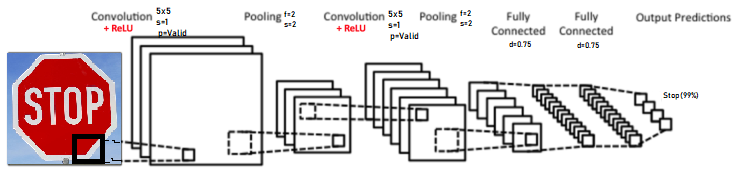
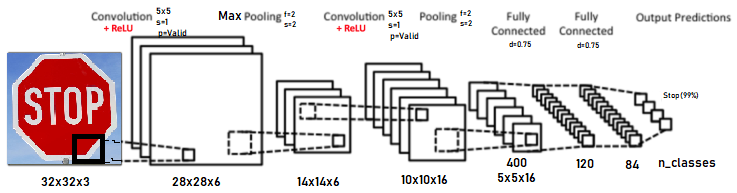
docs: addtion of architecture images

diff --git a/README.md b/README.md
@@ -47,15 +47,22 @@ The demo file has the following sections:
 - Inpection & Analysis of Model
 
 #### Dataset
-The demo file makes use of the German traffic sign dataset to show results. However, once you have run and understood the `demo.ipynb`, feel free to try your own dataset by changing the input directories from 'Load The Data' section in the demo file. The dataset provided for training and validation are pickle files containing RESIZED VERSIONS (32 by 32) of the [original dataset](http://benchmark.ini.rub.de/?section=gtsrb&subsection=dataset). There exist two test sets for evaluation, one as a pickle file with the same instructions as validation and training set, and the other is `my_test_images` with images I collected from the web. The following is a catalog of the signs in the dataset as labeled in `signnames.csv`:
+The demo file makes use of the German traffic sign dataset to show results. However, once you have run and understood the `demo.ipynb`, feel free to try your own dataset by changing the input directories from 'Load The Data' section in the demo file.
+
+The dataset provided for training and validation are pickle files containing RESIZED VERSIONS (32 by 32) of the [original dataset](http://benchmark.ini.rub.de/?section=gtsrb&subsection=dataset). There exist two test sets for evaluation, one as a pickle file with the same instructions as validation and training set, and the other is `my_test_images` with images I collected from the web.
+
+The following is a catalog of the signs in the dataset as labeled in `signnames.csv`:
+
 ![alt text][image2]
 
 The dataset contains 43 classes labeled from [0-42]. The image shape is (32, 32, 3) for all pickle files while `my_test_images` has images of random sizes which are later preprocessed to be resized to (32, 32, 3). <b>ADD in `my_test_images` YOUR OWN GERMAN TRAFFIC SIGNS FOR TESTING.</b>
 
-Training Set   : 34799 samples
-Validation Set :  4410 samples
-Test Set       : 12630 samples
-My Test Set    :     6 samples
+| Set | Samples |
+| :---  | :--------: |
+| Training Set   | 34799  |
+| Validation Set |  4410  |
+| Test Set       | 12630  |
+| My Test Set    |     6  |
 
 The distribution of the training set is:
 ![alt text][image3]
@@ -66,14 +73,14 @@ The model of the neural network has a LeNet architecture with dropout added in t
 
 ![alt text][image4]
 
-My final model consisted of the following layers:
 
 ###### Note: 
-![alt text][image5]
 
 - Normalization helps to find faster better weights during training 
-- The dropout added to the LeNet architecture increased accuracy by 4%
+- The dropout added to the LeNet architecture increased the training accuracy by 4% 
 - The optimizer used was Adam
+- The Networks parameters were  the following:
+![alt text][image5]
 
 
 ## Analysis of Model on Test Images
@@ -84,51 +91,67 @@ Here are five random German traffic signs that I found on the web:
 
 The model's top 5 softmax predictions on each of these new traffic signs were:
 
-For <b>Stop</b> The top 5 softmax results:
-|Prob:| Prediction|
-|:--:|:--:|
-| 100.0%   | Priority road |
+<b>Stop</b> 
+| Prob: | Top 5 Predictions |
+| ---:  | :--------: |
+| 100.0% | Priority road |
 | 0.0%   | End of no passing by vehicles over 3.5 metric tons |
 | 0.0%   | No passing for vehicles over 3.5 metric tons |
-| 0.0%    |End of no passing |
-| 0.0%   |Right-of-way at the next intersection |
+| 0.0%   | End of no passing |
+| 0.0%   | Right-of-way at the next intersection |
 
-For "Children crossing" The top 5 softmax results:
-	 99.64%   : Children crossing 
-	 0.3%   : Pedestrians 
-	 0.03%   : Right-of-way at the next intersection 
-	 0.02%   : Road narrows on the right 
-	 0.01%   : Dangerous curve to the right 
+<b>Children crossing,</b>
+| Prob: | Top 5 Predictions |
+| ---:  | :--------: |
+| 99.64%  | Children crossing |
+| 0.3%    | Pedestrians |
+| 0.03%   | Right-of-way at the next intersection |
+| 0.02%   | Road narrows on the right |
+| 0.01%   | Dangerous curve to the right |
 
-For "Go straight or right" The top 5 softmax results:
-	 100.0%   : Go straight or right 
-	 0.0%   : General caution 
-	 0.0%   : Keep right 
-	 0.0%   : Roundabout mandatory 
-	 0.0%   : Turn left ahead 
+<b>Go straight or right</b>
+| Prob: | Top 5 Predictions |
+| ---:  | :--------: |
+| 100.0% | Go straight or right |
+| 0.0%   | General caution |
+| 0.0%   | Keep right |
+| 0.0%   | Roundabout mandatory |
+| 0.0%   | Turn left ahead |
 
-For "Speed limit (30km/h)" The top 5 softmax results:
-	 98.78%   : Speed limit (30km/h) 
-	 0.86%   : Speed limit (20km/h) 
-	 0.36%   : Speed limit (70km/h) 
-	 0.0%   : Speed limit (50km/h) 
-	 0.0%   : Speed limit (80km/h) 
+<b>Speed limit (30km/h)</b>
+| Prob: | Top 5 Predictions |
+| ---:  | :--------: |
+| 98.78% | Speed limit (30km/h) |
+| 0.86%  | Speed limit (20km/h) |
+| 0.36%  | Speed limit (70km/h) |
+| 0.0%   | Speed limit (50km/h) |
+| 0.0%   | Speed limit (80km/h) |
 
-For "Roundabout mandatory" The top 5 softmax results:
-	 99.96%   : Roundabout mandatory 
-	 0.04%   : Turn right ahead 
-	 0.0%   : Ahead only 
-	 0.0%   : Go straight or left 
-	 0.0%   : Turn left ahead 
+<b>Roundabout mandatory</b>
+| Prob: | Top 5 Predictions |
+| ---:  | :--------: |
+| 99.96% | Roundabout mandatory | 
+| 0.04%  | Turn right ahead |
+| 0.0%   | Ahead only |
+| 0.0%   | Go straight or left |
+| 0.0%   | Turn left ahead |
 
 
 The model was able to correctly guess 4 of the 5 traffic signs, which gives an accuracy of 80%. This compares favorably to the accuracy on the original test set of 100.0 %
 
-The `STOP` traffic sign failed predicting it as `Priority Road` so let's inspect the feature maps of LeNet's first convolution, first max pool, and second convolution.
+The `STOP` traffic sign failed in the prediction with `Priority Road` so let's inspect the its feature maps in for LeNet's first convolutional, first max pool, and second convolutional layers.
 ![alt text][image7]
 
 
 ## Drawbacks and improvements
-With a very basic architecture we were able to reach 95% accuracy. Possible improvements would be to make the architecture deeper to reach higher accuracy, evaluate different traffic sign dataset, and add detection to classify multiple traffic signs per image.   
+The architecture is very basic, although we were able to reach:
+
+| Set   | Accuracy |
+| :---  | :--------: |
+| Validation Set |   95.4% |
+| Test Set       | 100.0%  |
+| My Test Set    |     80%  |
+
+Possible improvements would be to make the architecture deeper to reach higher accuracy, evaluate how well the model performs if trained on other countries\` traffic signs, add detection to classify multiple traffic signs per image.   
 
 
